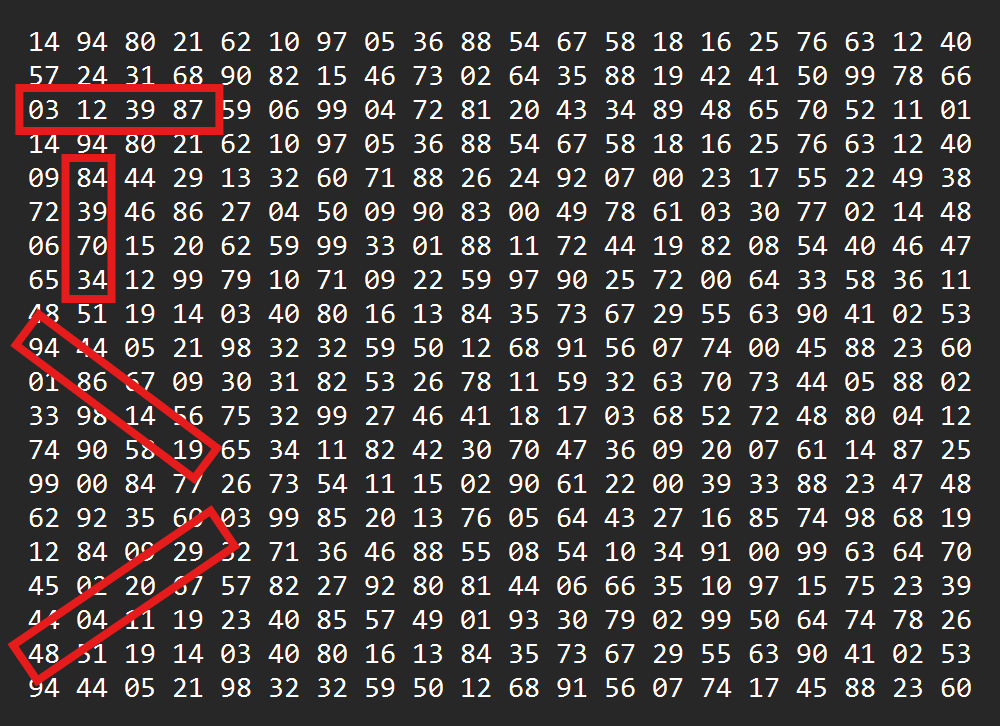
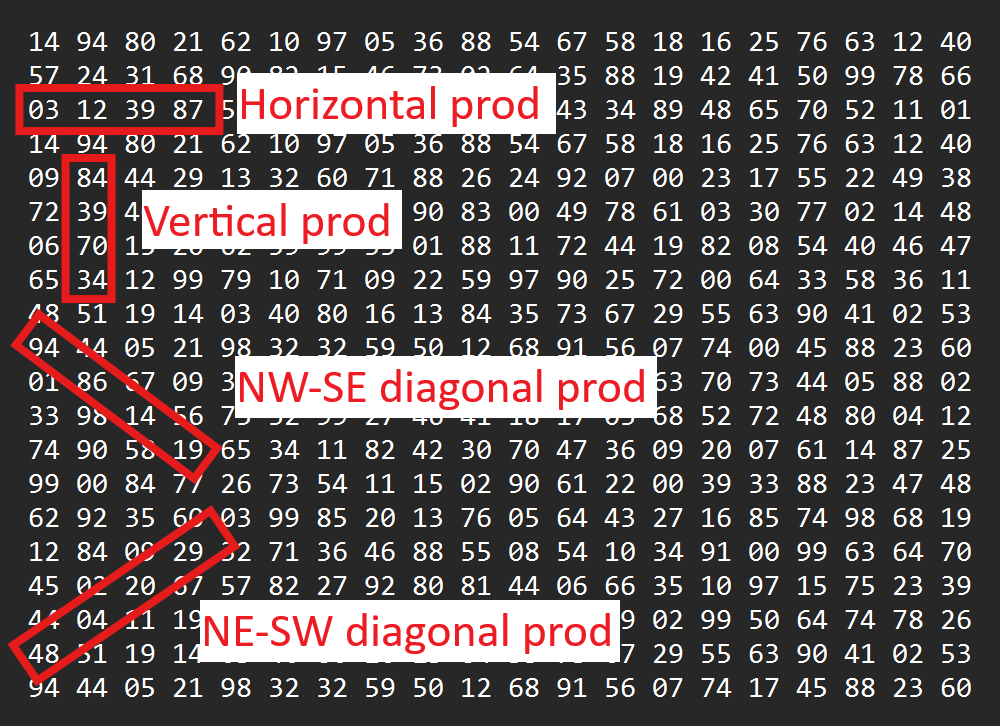
Made improvements to the README.md

diff --git a/docs/README.md b/docs/README.md
@@ -7,9 +7,16 @@ The **GridAnalyzer** package contains classes to parse and find the largest prod
   
 - *GridProduct* is a record that stores a product calculated from a matrix along with its factors and indices of the factors.
   
-- *GridSolver* finds the largest product of *k* consecutive numbers in an *n* x *n* matrix. Results are returned as a list of GridProducts.
+- *GridSolver* finds the largest product of *k* consecutive numbers in an *n* x *n* matrix. Results are returned as a list of GridProducts (the list will contain more than one *GridProduct*s just in case two or more calculated products are equal)
   - The static method *solve()* takes an int[][] *grid*, and an int *kConsecutive* of the number of consecutive numbers,  as input.   
   - The *k* consecutive numbers can either be horizontal, vertical or diagonal (North West to South East and North East to South West) - see illustration below (*k* = 4).
 
 
-<img src="illustration.png" alt="How consecutive numbers are calculated" width="300" height="250" />
+
+
+
+<img src="illustration.png" alt="How consecutive numbers are calculated" width="350" height="250" />
+
+Image: The four directions the product of *k* consecutive numbers are calculated.
+
+
